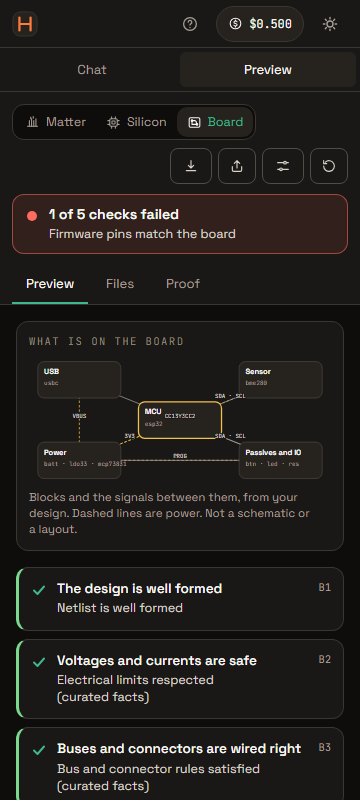
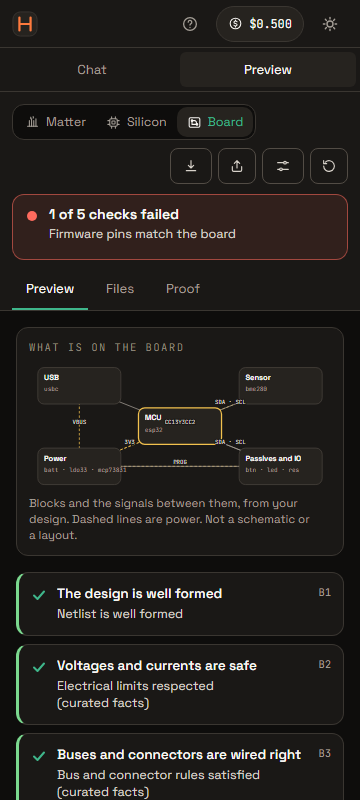
fix(app): layout shift under 0.05 with the merged agent panel (reserved verdict and plate space); quality gate waits for real results

diff --git a/web/components/app/MatterPreview.tsx b/web/components/app/MatterPreview.tsx
@@ -1,6 +1,6 @@
 "use client";
 
-import { useEffect, useMemo } from "react";
+import { useEffect, useMemo, useState } from "react";
 import { MATTER_GENERATORS, MATTER_SPREADER, type MatterSimulation } from "@/lib/hosted";
 import { buildPlate, heatColor, heatGradientCss } from "@/lib/plate";
 import { ApiErrorView } from "../domain/ApiErrorView";
@@ -19,8 +19,14 @@ function PlateViewer({ sim, hi }: { sim: MatterSimulation; hi: number }) {
     const span = Math.max(hi - lo, 1e-9);
     return (tri: number) => heatColor((plate.temps[Math.floor(tri / 2)] - lo) / span);
   }, [plate, lo, hi]);
+  // The canvas sizes itself from a width it measures after mounting; stay invisible for those two frames so nothing visibly jumps.
+  const [settled, setSettled] = useState(false);
+  useEffect(() => {
+    const id = requestAnimationFrame(() => requestAnimationFrame(() => setSettled(true)));
+    return () => cancelAnimationFrame(id);
+  }, []);
   return (
-    <div>
+    <div className={settled ? "" : "invisible"}>
       <MeshCanvas
         mesh={plate.mesh}
         colorOf={byTri}
@@ -136,10 +142,10 @@ export function MatterPreview({ b, tab }: { b: MatterBench; tab: "preview" | "pr
 
 function Empty({ busy, onRun, what }: { busy: boolean; onRun: () => void; what: string }) {
   return (
-    <div className="grid min-h-[320px] place-items-center p-6" role="status">
+    <div className="grid min-h-[500px] place-items-center p-6" role="status">
       {busy ? (
-        <div className="w-full max-w-sm text-center">
-          <div className="mx-auto h-44 w-full animate-pulse rounded-2xl bg-raised" />
+        <div className="w-full text-center">
+          <div className="mx-auto h-[380px] w-full animate-pulse rounded-2xl bg-raised" />
           <p className="mt-3 text-[13px] text-ink-3">Simulating the heat flow and checking it with a second solver…</p>
         </div>
       ) : (

diff --git a/web/components/app/PreviewPane.tsx b/web/components/app/PreviewPane.tsx
@@ -20,7 +20,7 @@ const TONE: Record<Verdict["tone"], { color: string; word: string }> = {
 export function VerdictBar({ v }: { v: Verdict }) {
   const t = TONE[v.tone];
   return (
-    <div role="status" aria-live="polite" data-tone={v.tone} data-testid="verdict" className="flex min-w-0 items-start gap-3 rounded-xl border px-3.5 py-2.5" style={{ borderColor: `color-mix(in srgb, ${t.color} 55%, transparent)`, background: `color-mix(in srgb, ${t.color} 10%, transparent)` }}>
+    <div role="status" aria-live="polite" data-tone={v.tone} data-testid="verdict" className="flex min-h-[66px] min-w-0 items-start gap-3 rounded-xl border px-3.5 py-2.5" style={{ borderColor: `color-mix(in srgb, ${t.color} 55%, transparent)`, background: `color-mix(in srgb, ${t.color} 10%, transparent)` }}>
       <span className={`mt-1.5 h-2.5 w-2.5 shrink-0 rounded-full ${v.tone === "working" ? "anim-breathe" : ""}`} style={{ background: t.color }} aria-hidden="true" />
       <div className="min-w-0">
         <p className="text-[14px] font-semibold leading-snug text-ink">
